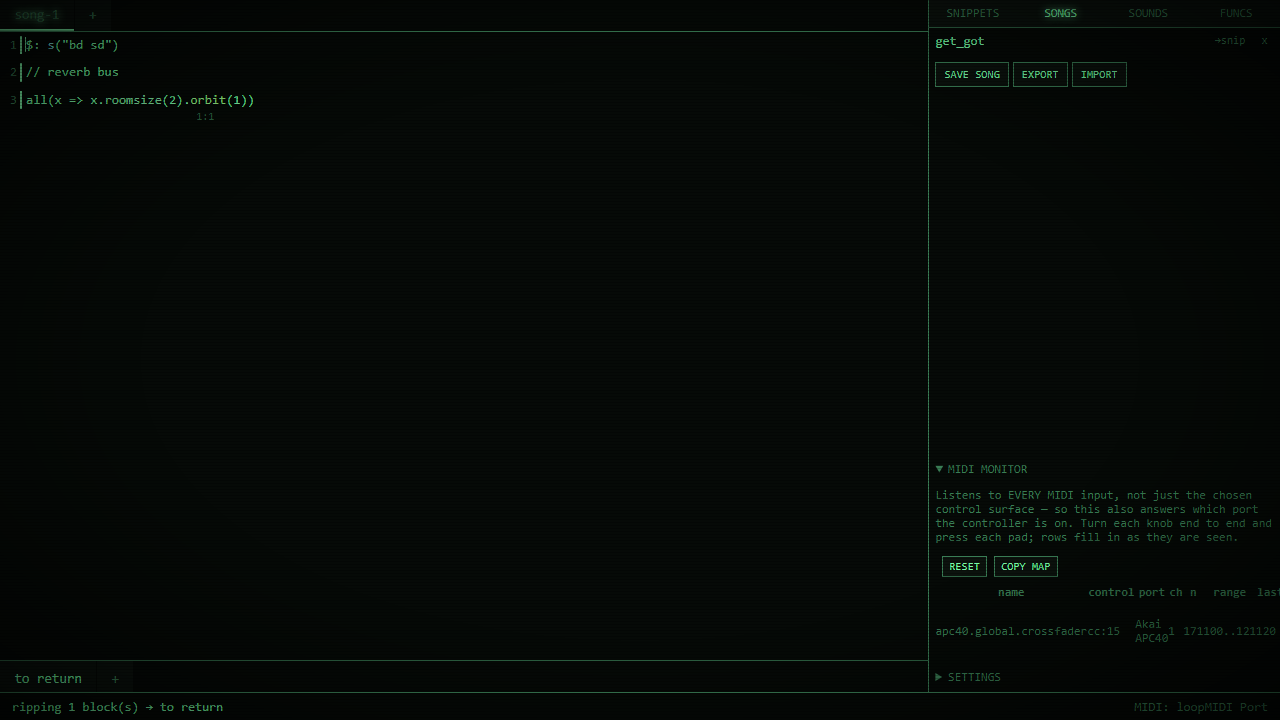
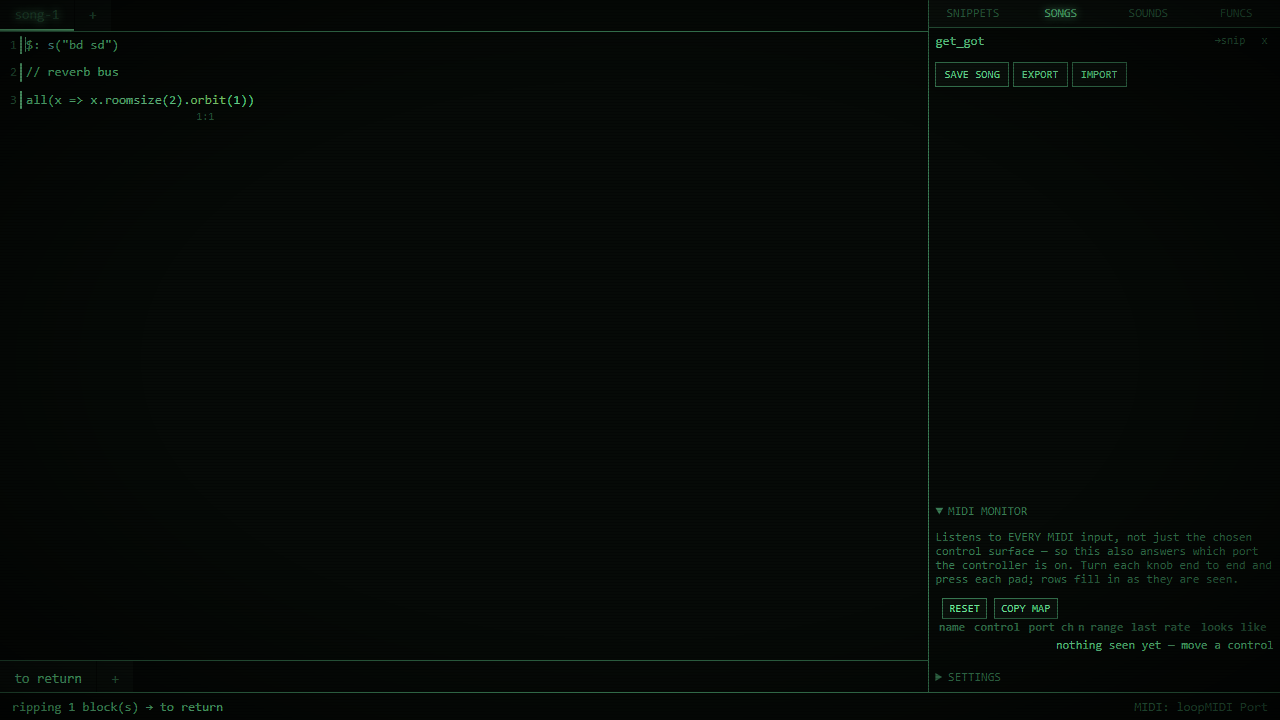
Drop build mode when its song leaves the screen or is deleted
SEND C was the report; SEND B is what the audit found. Both hold state with a
lifetime, and the question that separates a correct toggle from a leaking one
is not "does OFF flip the flag" but "does OFF end everything ON started".

SEND C turned out to be clean at every layer I can measure. `audition.toggle()`
sets `on = false` and `tick()` returns before `play()`, so nothing new is
scheduled; the handler sits behind `if (control.isDown !== true) return false`
so one press is one toggle; and the voice is bounded by the `duration: 0.25`
that `previewSound` passes to superdough. Measured on the master bus through
the analyser tap: `bd` audible for 400 ms, the longer `space` for 300 ms, at a
beat of 500 ms. No ring-out, no overlap. The theory that a triggered voice
outlives the toggle is REFUTED, and recording that is the point - it is the
first thing the next reader will assume too.

Build mode leaks. `building` carries a `tabId`, and nothing dropped it when
that tab stopped being the one on screen:

  - Switch songs mid-build and TAP TEMPO keeps appending picks to the song you
    left. Invisible, no error. `live.setMonitor` reads `building.tabId` too, so
    the headphone cue points at a block that is nowhere on screen.
  - Delete that song and it THROWS. `pane.getCode` is the one accessor that
    reads `tabs.get(id).view` with no guard, so the setup-pick branch of
    `addPickToBlock` raises a TypeError out of the MIDI handler. Probed
[…]

Changed region(s): [[0.7188, 0.6417, 1.0, 0.9167]]

diff --git a/src/main.js b/src/main.js
@@ -459,6 +459,20 @@ function addPickToBlock() {
   status.info(separate ? `build: ${pick.name} (new block)` : `build: + ${pick.name}`);
 }
 
+/**
+ * Drop build mode without finishing it.
+ *
+ * Not `setBuilding(false)`: that is the DELIBERATE end of a build and may
+ * evaluate the result, which is wrong for a song that is no longer on screen
+ * or no longer exists. This is the same distinction pattern build draws
+ * between REC and a tab going away.
+ */
+function abandonBuilding(reason) {
+  if (!building) return;
+  building = null;
+  status.info(`build: off - ${reason}`);
+}
+
 /** Enter or leave build mode. */
 function setBuilding(on) {
   if (on) {
@@ -806,6 +820,11 @@ pane.onViewTab(() => {
   // longer on screen - invisible, with the pads still lit as though they were
   // editing what you are looking at.
   if (patternMode) exitPatternMode();
+  // Build mode holds a tab id for exactly the same reason and with exactly the
+  // same consequence: TAP TEMPO would keep appending picks to the song you
+  // just left, invisibly, while the monitor cue pointed at a block on screen
+  // nowhere. `live.setMonitor` reads `building.tabId` too.
+  abandonBuilding('a different song is on screen');
   refreshArgMap();
 });
 
@@ -817,6 +836,12 @@ pane.onCloseTab((id) => {
     exitPatternMode();
     status.info('pattern build: off - that song was deleted');
   }
+  // Build mode fails LOUDER than pattern build did, and that is what makes it
+  // worse rather than better: `pane.getCode` is the one accessor that reads
+  // `tabs.get(id).view` without a guard, so a setup pick after the song was
+  // deleted throws a TypeError out of the MIDI handler instead of quietly
+  // doing nothing.
+  if (building?.tabId === id) abandonBuilding('that song was deleted');
 });
 
 // SEND C: audition the highlighted sound once a beat, so a bank can be
